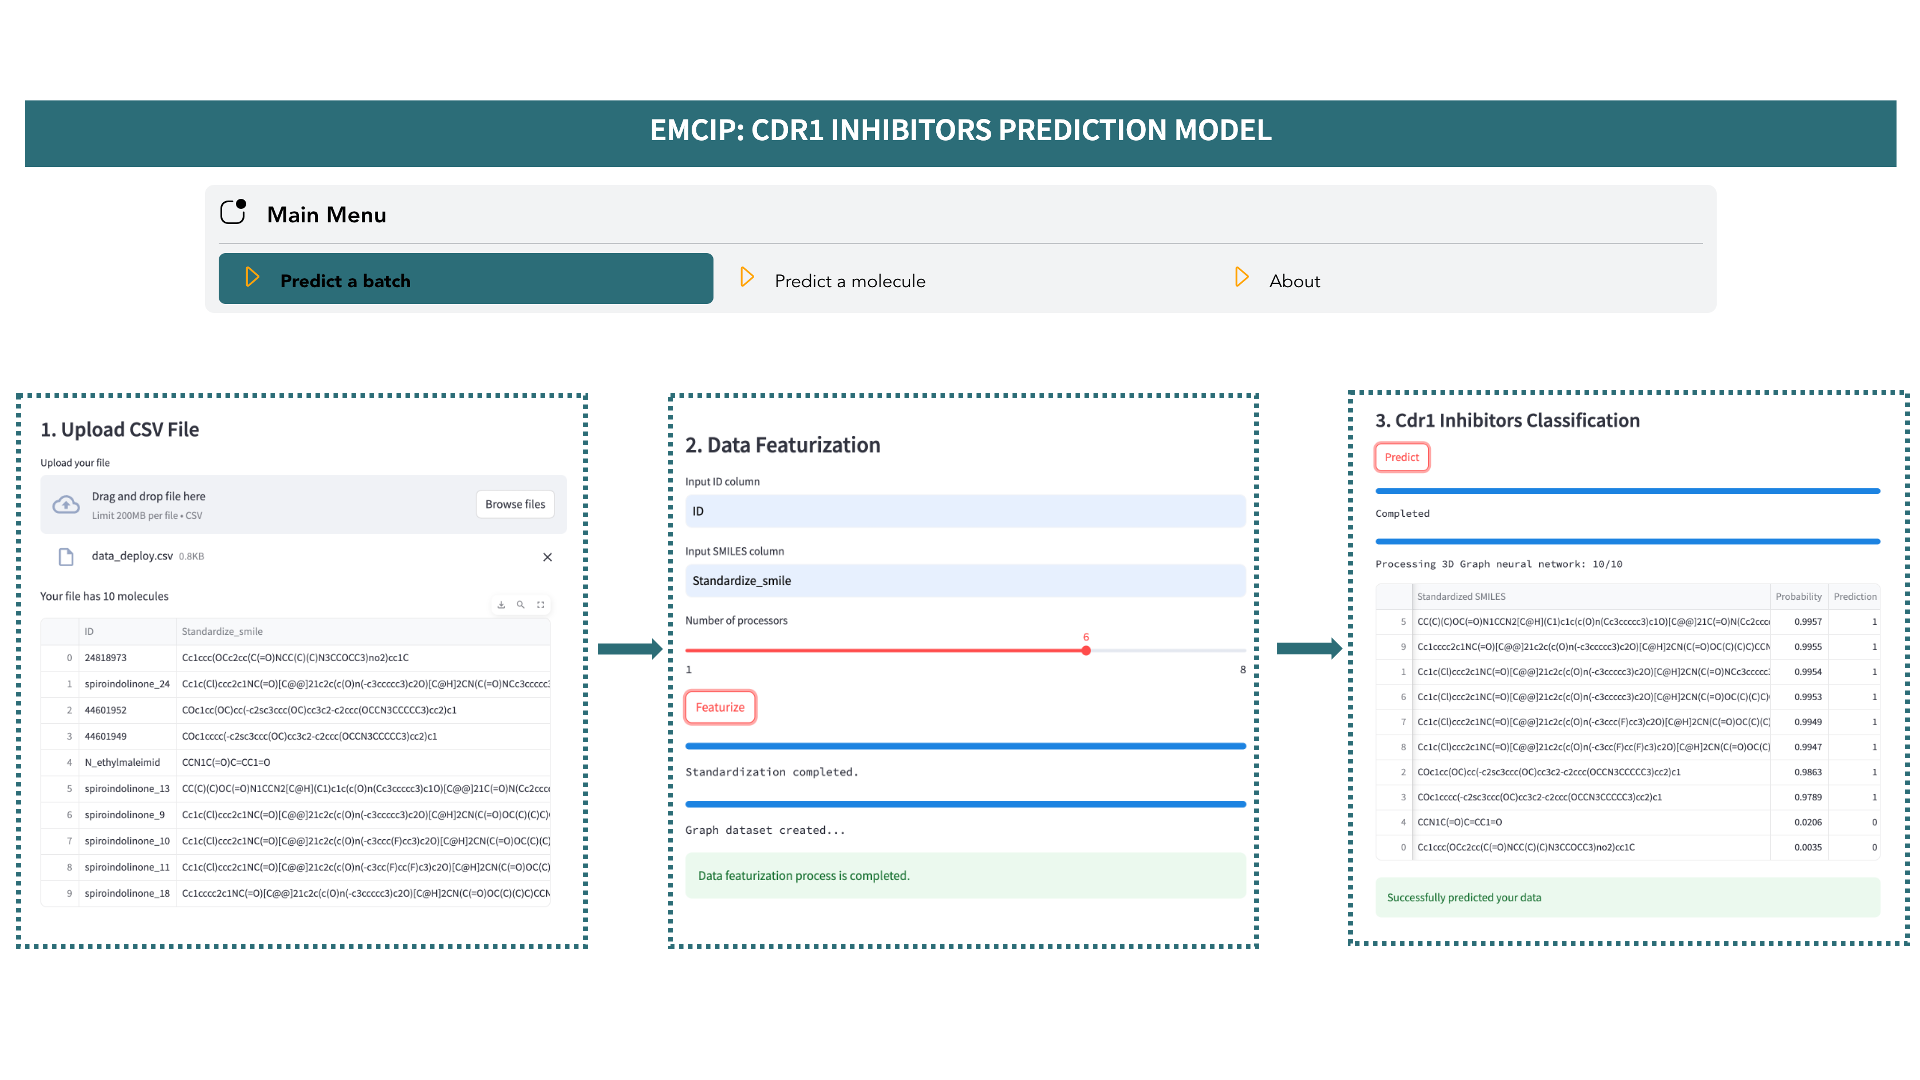
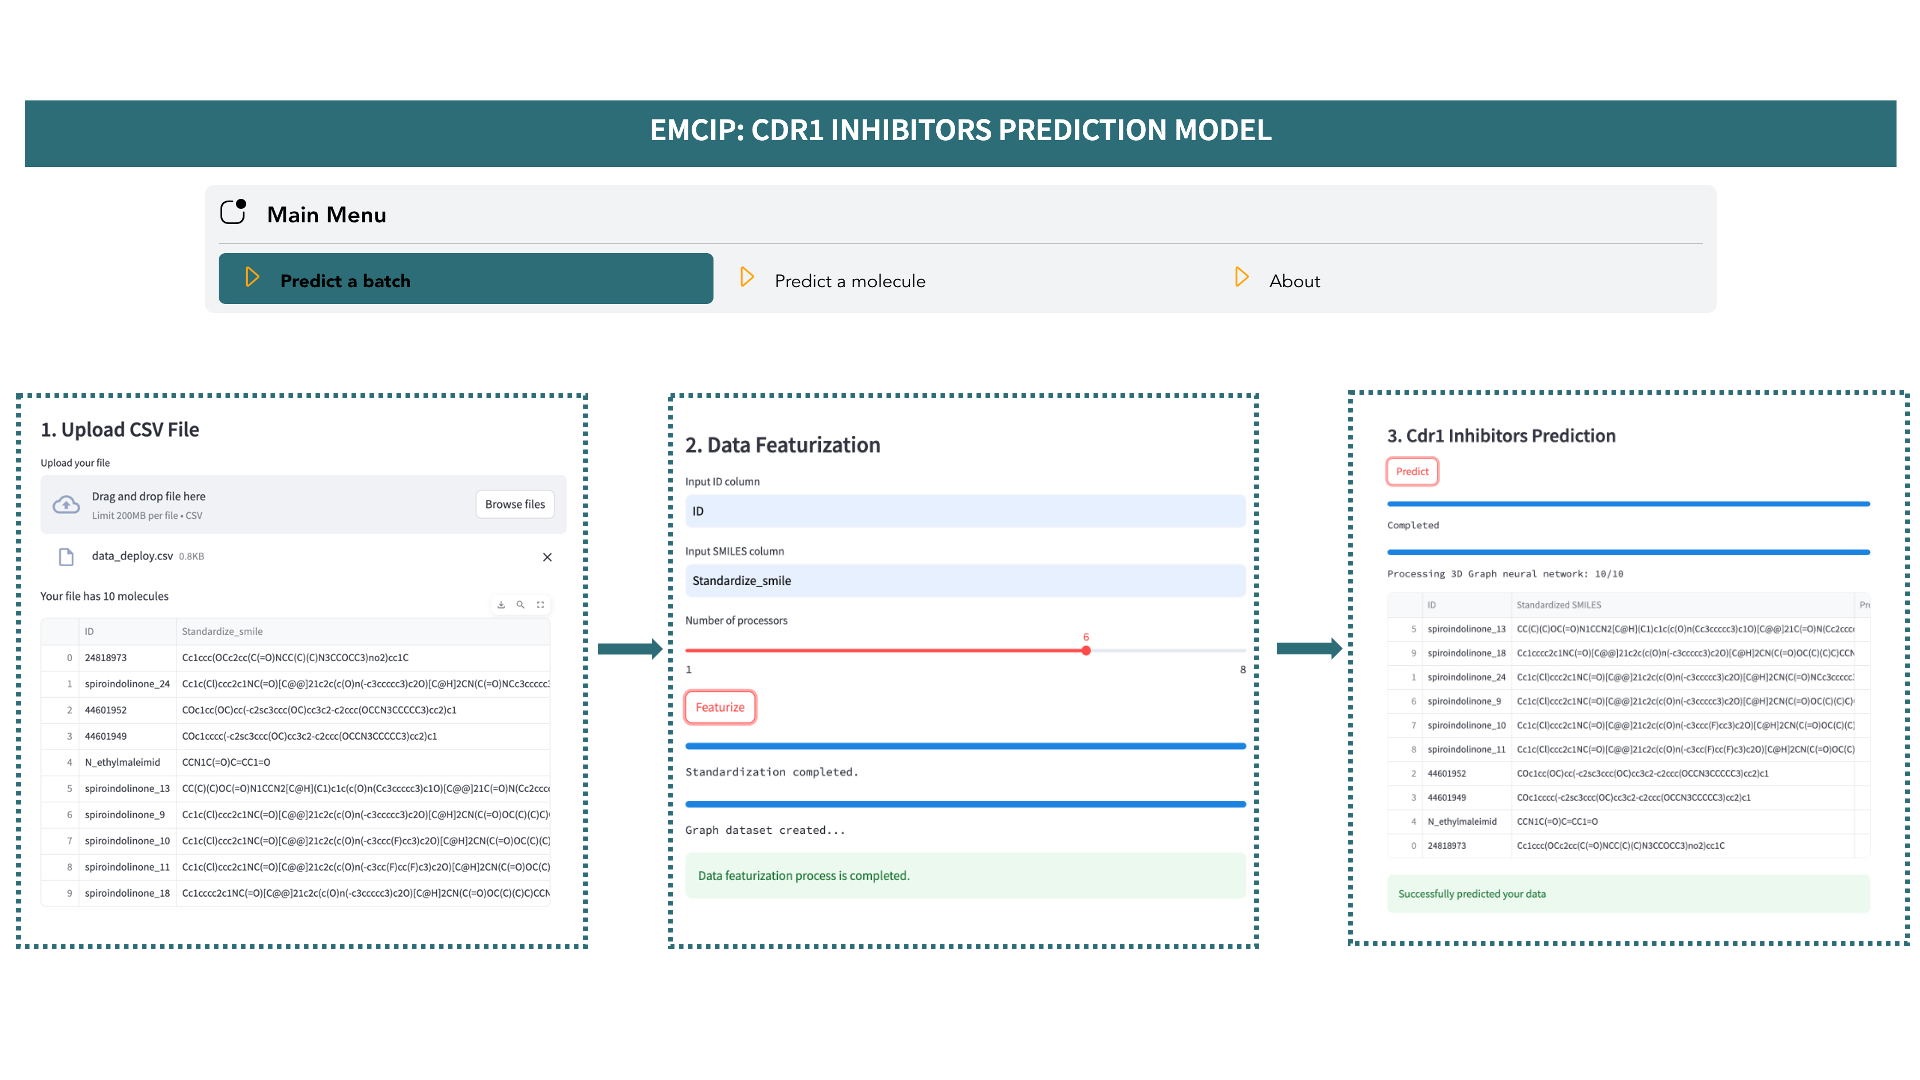
Update figure and title

Changed region(s): [[0.7188, 0.3667, 1.0, 0.7944], [0.7188, 0.825, 0.8125, 0.8556]]

diff --git a/EMCIP.py b/EMCIP.py
@@ -19,7 +19,7 @@ st.markdown("<link rel='stylesheet' href='https://cdnjs.cloudflare.com/ajax/libs
 # HTML and CSS styles
 html_temp = """
     <div style="background-color:#2C6D78;padding:1px">
-    <h3 style="color:white;text-align:center;">EMCIP: CDR1 INHIBITORS PREDICTION MODEL </h2>
+    <h3 style="color:white;text-align:center;">EMCIP: an Ensemble Model for Cdr1 Inhibitor Prediction </h2>
     </div>
     """
 css = """
